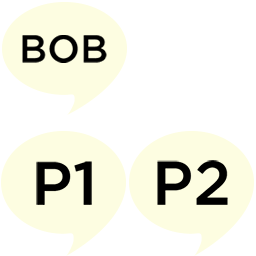
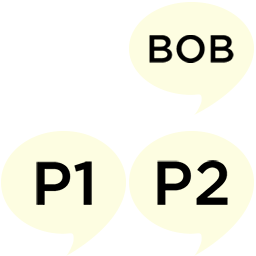
Activated screen decals + fading away top decal when active

Changed region(s): [[0.0, 0.0, 1.0, 0.4375]]

diff --git a/lib/renderer-3d/player.js b/lib/renderer-3d/player.js
@@ -30,8 +30,8 @@ function Player(renderer,id){
   this.idlePlane = createIdlePlane();
   this.cube = createCube(id);
   this.arena.add(this.cube)
-  this.decal = createDecal(this.cube);
-  this.screenDecal = createScreenDecal(this.cube);
+  this.decal = createDecal(this.cube, id);
+  this.screenDecal = createScreenDecal(this.cube, id );
   this.cubePosition = Player.CubeStateIdle;
   this.paddleExtraSize = 1;
 
@@ -127,7 +127,6 @@ Player.prototype = {
     decalGeo.uvsNeedUpdate = true;
 
     this.screenDecal.material.map.offset.set( (id===0)?0:0.5, (multiplayer)?0:0.5 );
-    this.screenDecal.material.map.uvsNeedUpdate = true;
   },
 
   gotoIdleState: function() {
@@ -162,6 +161,9 @@ Player.prototype = {
     }.bind(this)})
 
 
+    TweenMax.to( this.decal.material,1,{opacity:toIdle?1:0})
+    TweenMax.to( this.screenDecal.material,1,{opacity:1})
+
   },
 
   hide: function( hideCompletely, callback ){
@@ -190,6 +192,9 @@ Player.prototype = {
       ]
       this.reflection.geometry.uvsNeedUpdate = true;
     }.bind(this)})
+
+    TweenMax.to(this.decal.material,1,{opacity:hideCompletely?1:0})
+    TweenMax.to(this.screenDecal.material,1,{opacity:0})
 
   },
 
@@ -463,16 +468,17 @@ function createCube(id){
   return cubeMesh;
 }
 
-function createDecal( cube ) {
+function createDecal( cube, id  ) {
   //decal
   var w = settings.data.arenaWidth
     , h = w/16*9;
 
   var decalGeo = new THREE.PlaneGeometry(350,350,1,1);
-  var decalMesh = new THREE.Mesh( decalGeo,Materials.decal)
+  var decalMesh = new THREE.Mesh( decalGeo, id==0?Materials.decal1:Materials.decal2)
   //decalMesh.material.map.repeat.x = 0.5;
   decalMesh.material.map.repeat.y = 0.5;
   decalMesh.material.map.offset.y = 0.5;
+
   decalMesh.position.x = 610;
   decalMesh.position.z = -100;
   decalMesh.rotation.x = -Math.PI*.5;
@@ -483,22 +489,22 @@ function createDecal( cube ) {
   return decalMesh;
 }
 
-function createScreenDecal( cube ) {
+function createScreenDecal( cube, id ) {
   //decal
   var w = settings.data.arenaWidth
     , hw = w*.5
     , h = w/16*9
     , d = settings.data.videoBoxDepth-10;
 
-  var decalGeo = new THREE.PlaneGeometry(300,300,1,1);
-  var decalMesh = new THREE.Mesh( decalGeo,Materials.screenDecal)
+  var decalGeo = new THREE.PlaneGeometry(300,270,1,1);
+  var decalMesh = new THREE.Mesh( decalGeo,(id==0)?Materials.screenDecal1:Materials.screenDecal2 )
 
   decalMesh.material.map.repeat = new THREE.Vector2( 0.5, 0.5 );
   decalMesh.material.map.offset = new THREE.Vector2( 0, 0 );
   decalMesh.position.x = hw - 210;
   decalMesh.position.z = d*0.5+2;
 
-  decalMesh.position.y = h*.5-185;
+  decalMesh.position.y = h*.5-175;
 
   cube.add(decalMesh);
 

diff --git a/lib/renderer-3d/materials.js b/lib/renderer-3d/materials.js
@@ -49,8 +49,10 @@ function Materials(){
 
   this.remoteVideoTexture = createTexture("remoteInput");
 
-  this.decal = createDecal()
-  this.screenDecal = createScreenDecal()
+  this.decal1 = createDecal()
+  this.decal2 = createDecal()
+  this.screenDecal1 = createScreenDecal()
+  this.screenDecal2 = createScreenDecal()
   this.shield = new THREE.MeshLambertMaterial( {color:new THREE.Color(settings.data.shieldColor),transparent:true, opacity:0.2,side:THREE.DoubleSide} );
 
   this.terrainShadow = createShadow( textureLoadedCallback )
@@ -204,7 +206,10 @@ Materials.prototype.setMaxAnisotropy = function( value ) {
 
   this.arenaGrid.uniforms.tGrid.value.anisotropy = value;
   this.animal.uniforms.map.value.anisotropy = value;
-  this.decal.map.anisotropy = value;
+  this.decal1.map.anisotropy = value;
+  this.decal2.map.anisotropy = value;
+  this.screenDecal1.map.anisotropy = value;
+  this.screenDecal2.map.anisotropy = value;
   this.digitsPlayer1.map.anisotropy = value;
   this.digitsPlayer2.map.anisotropy = value;
   this.obstacle2.uniforms.tGrid.value.anisotropy = value;
@@ -585,26 +590,25 @@ function createAnimalMaterial( textureLoadedCallback ){
   return shaderMat;
 }
 
-function createDecal(renderer) {
+function createDecal(texture ) {
 
-  var texture = THREE.ImageUtils.loadTexture("/images/playerbox_decals2.jpg")
-  texture.minFilter = THREE.LinearMipMapLinearFilter;
-  texture.magFilter = THREE.LinearFilter;
+  var decalTexture = THREE.ImageUtils.loadTexture("/images/playerbox_decals3.jpg")
+  decalTexture.minFilter = THREE.LinearMipMapLinearFilter;
+  decalTexture.magFilter = THREE.LinearFilter;
 
-  return new THREE.MeshBasicMaterial({
-    map:texture,
+  return new THREE.MeshLambertMaterial({
+    map:decalTexture,
     lights:false,
-    transparent:true,
-    blending:THREE.MultiplyBlending})
+    transparent:true})
 }
 
-function createScreenDecal(renderer) {
+function createScreenDecal() {
 
   var texture = THREE.ImageUtils.loadTexture("/images/video-decal.png")
   texture.minFilter = THREE.LinearMipMapLinearFilter;
   texture.magFilter = THREE.LinearFilter;
 
-  return new THREE.MeshBasicMaterial({
+  return new THREE.MeshLambertMaterial({
     map:texture,
     lights:false,
     transparent:true})
